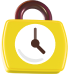
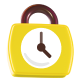
fix: cake locking form spacing

diff --git a/apps/web/src/views/CakeStaking/components/LockWeeksForm.tsx b/apps/web/src/views/CakeStaking/components/LockWeeksForm.tsx
@@ -126,9 +126,9 @@ export const LockWeeksForm: React.FC<{
   const [value, onChange] = useAtom(cakeLockWeeksAtom)
   return (
     <AutoRow alignSelf="start" gap="16px">
-      <FlexGap gap="8px" alignItems="center">
+      <FlexGap gap="8px" alignItems="center" height="40px">
         <Box width={40}>
-          <Image src="/images/cake-staking/lock.png" height={40} width={40} />
+          <Image src="/images/cake-staking/lock.png" height={37} width={34} mx="auto" />
         </Box>
         <FlexGap gap="4px">
           <Text color="textSubtle" textTransform="uppercase" fontSize={16} bold>

diff --git a/apps/web/src/views/CakeStaking/components/LockCakeForm.tsx b/apps/web/src/views/CakeStaking/components/LockCakeForm.tsx
@@ -124,7 +124,7 @@ export const LockCakeForm: React.FC<{
 
   return (
     <AutoRow alignSelf="start" gap="16px">
-      <FlexGap gap="8px" alignItems="center">
+      <FlexGap gap="8px" alignItems="center" height="40px">
         <Box width={40}>
           <TokenImage
             src={`https://pancakeswap.finance/images/tokens/${CAKE[ChainId.BSC].address}.png`}
